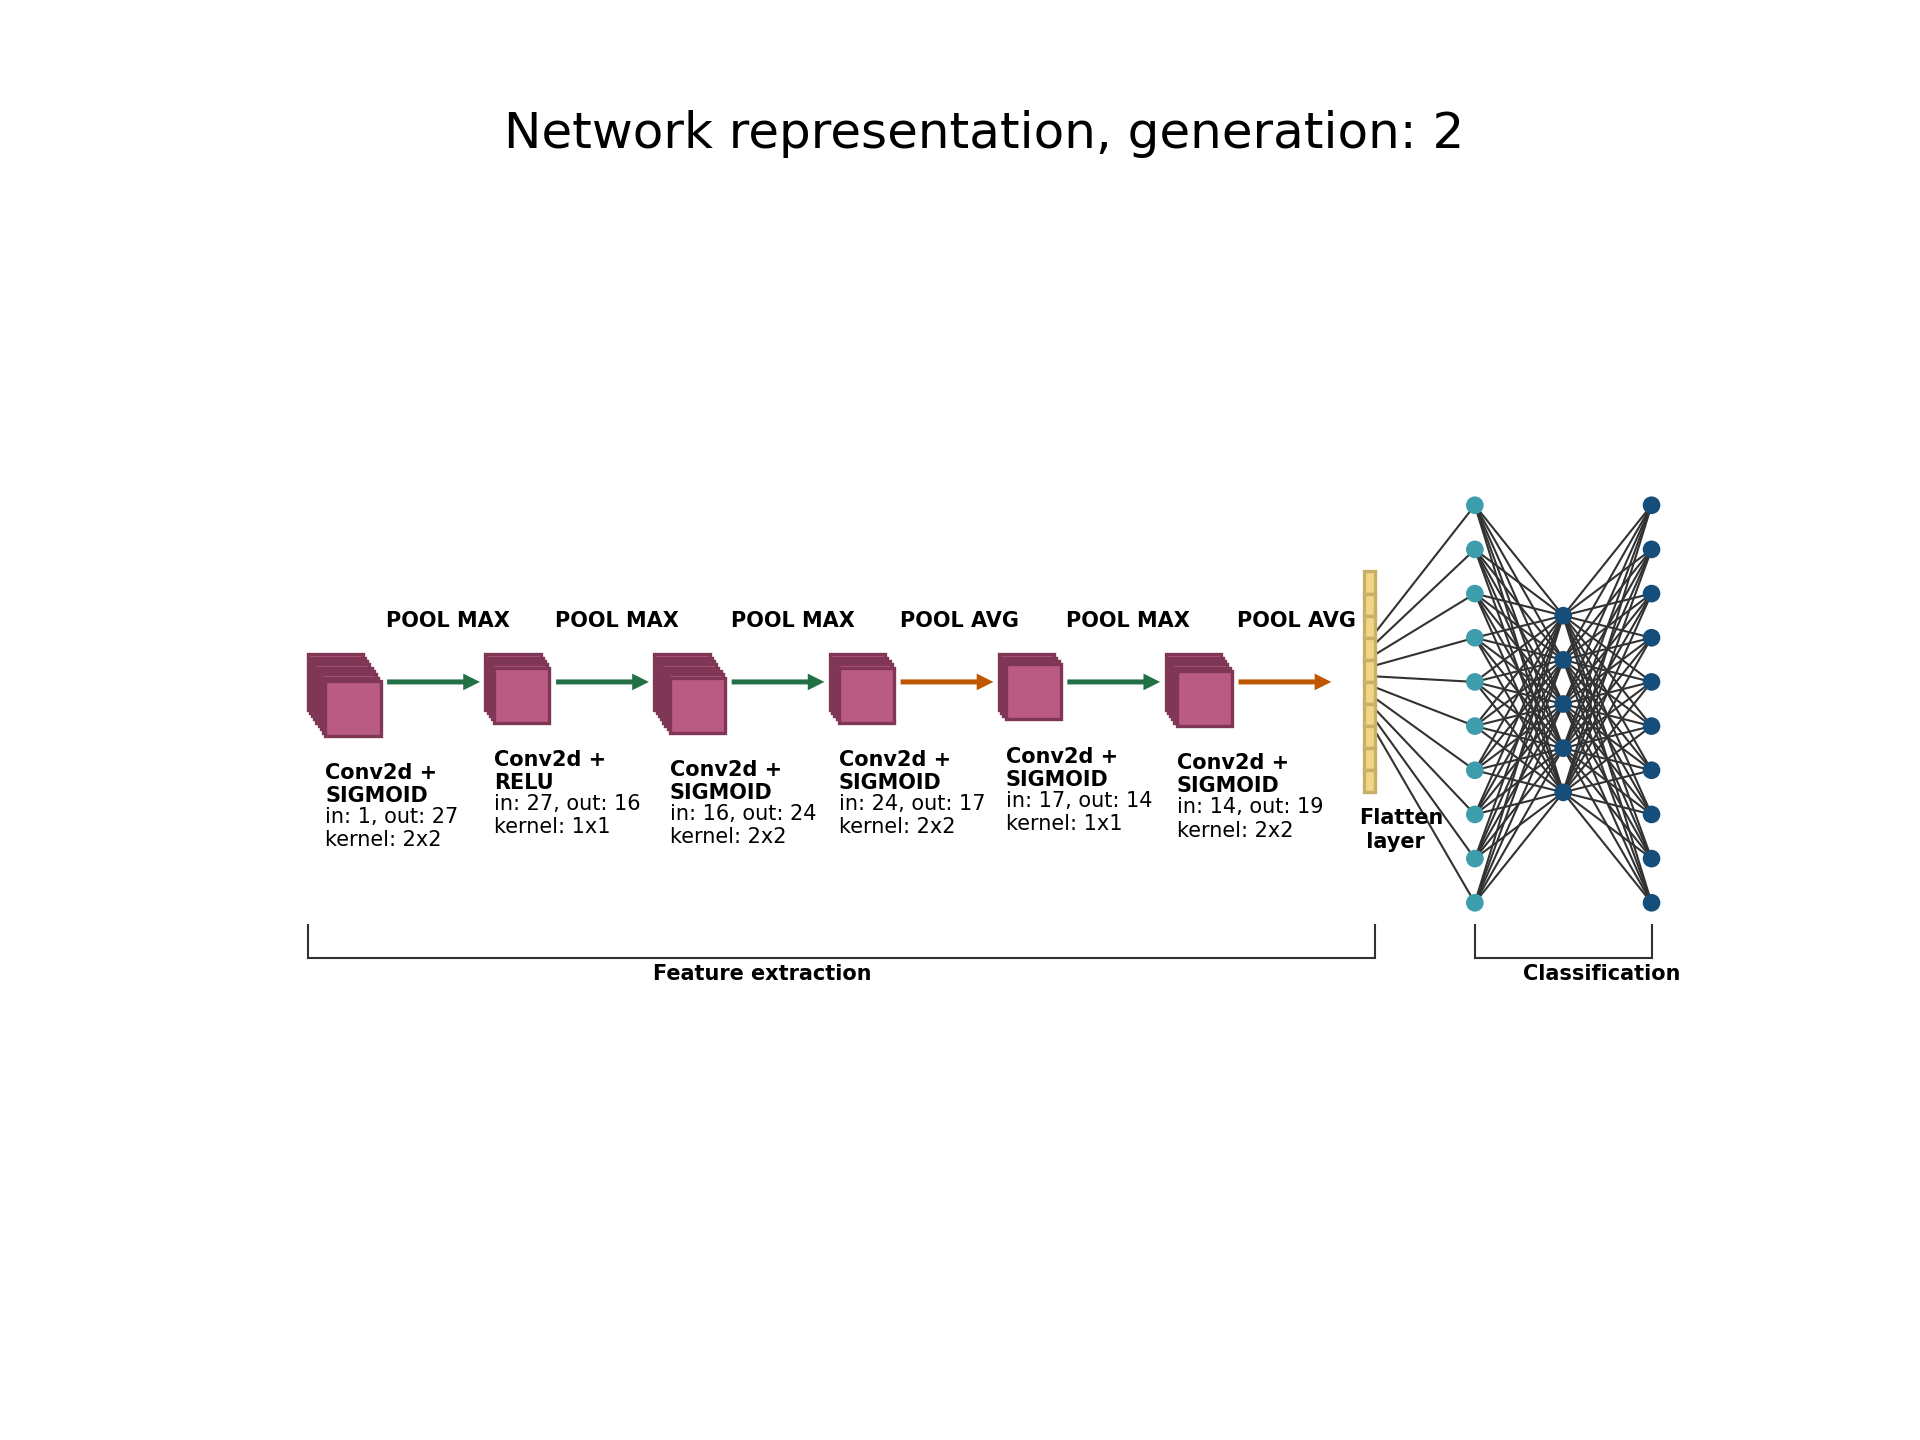
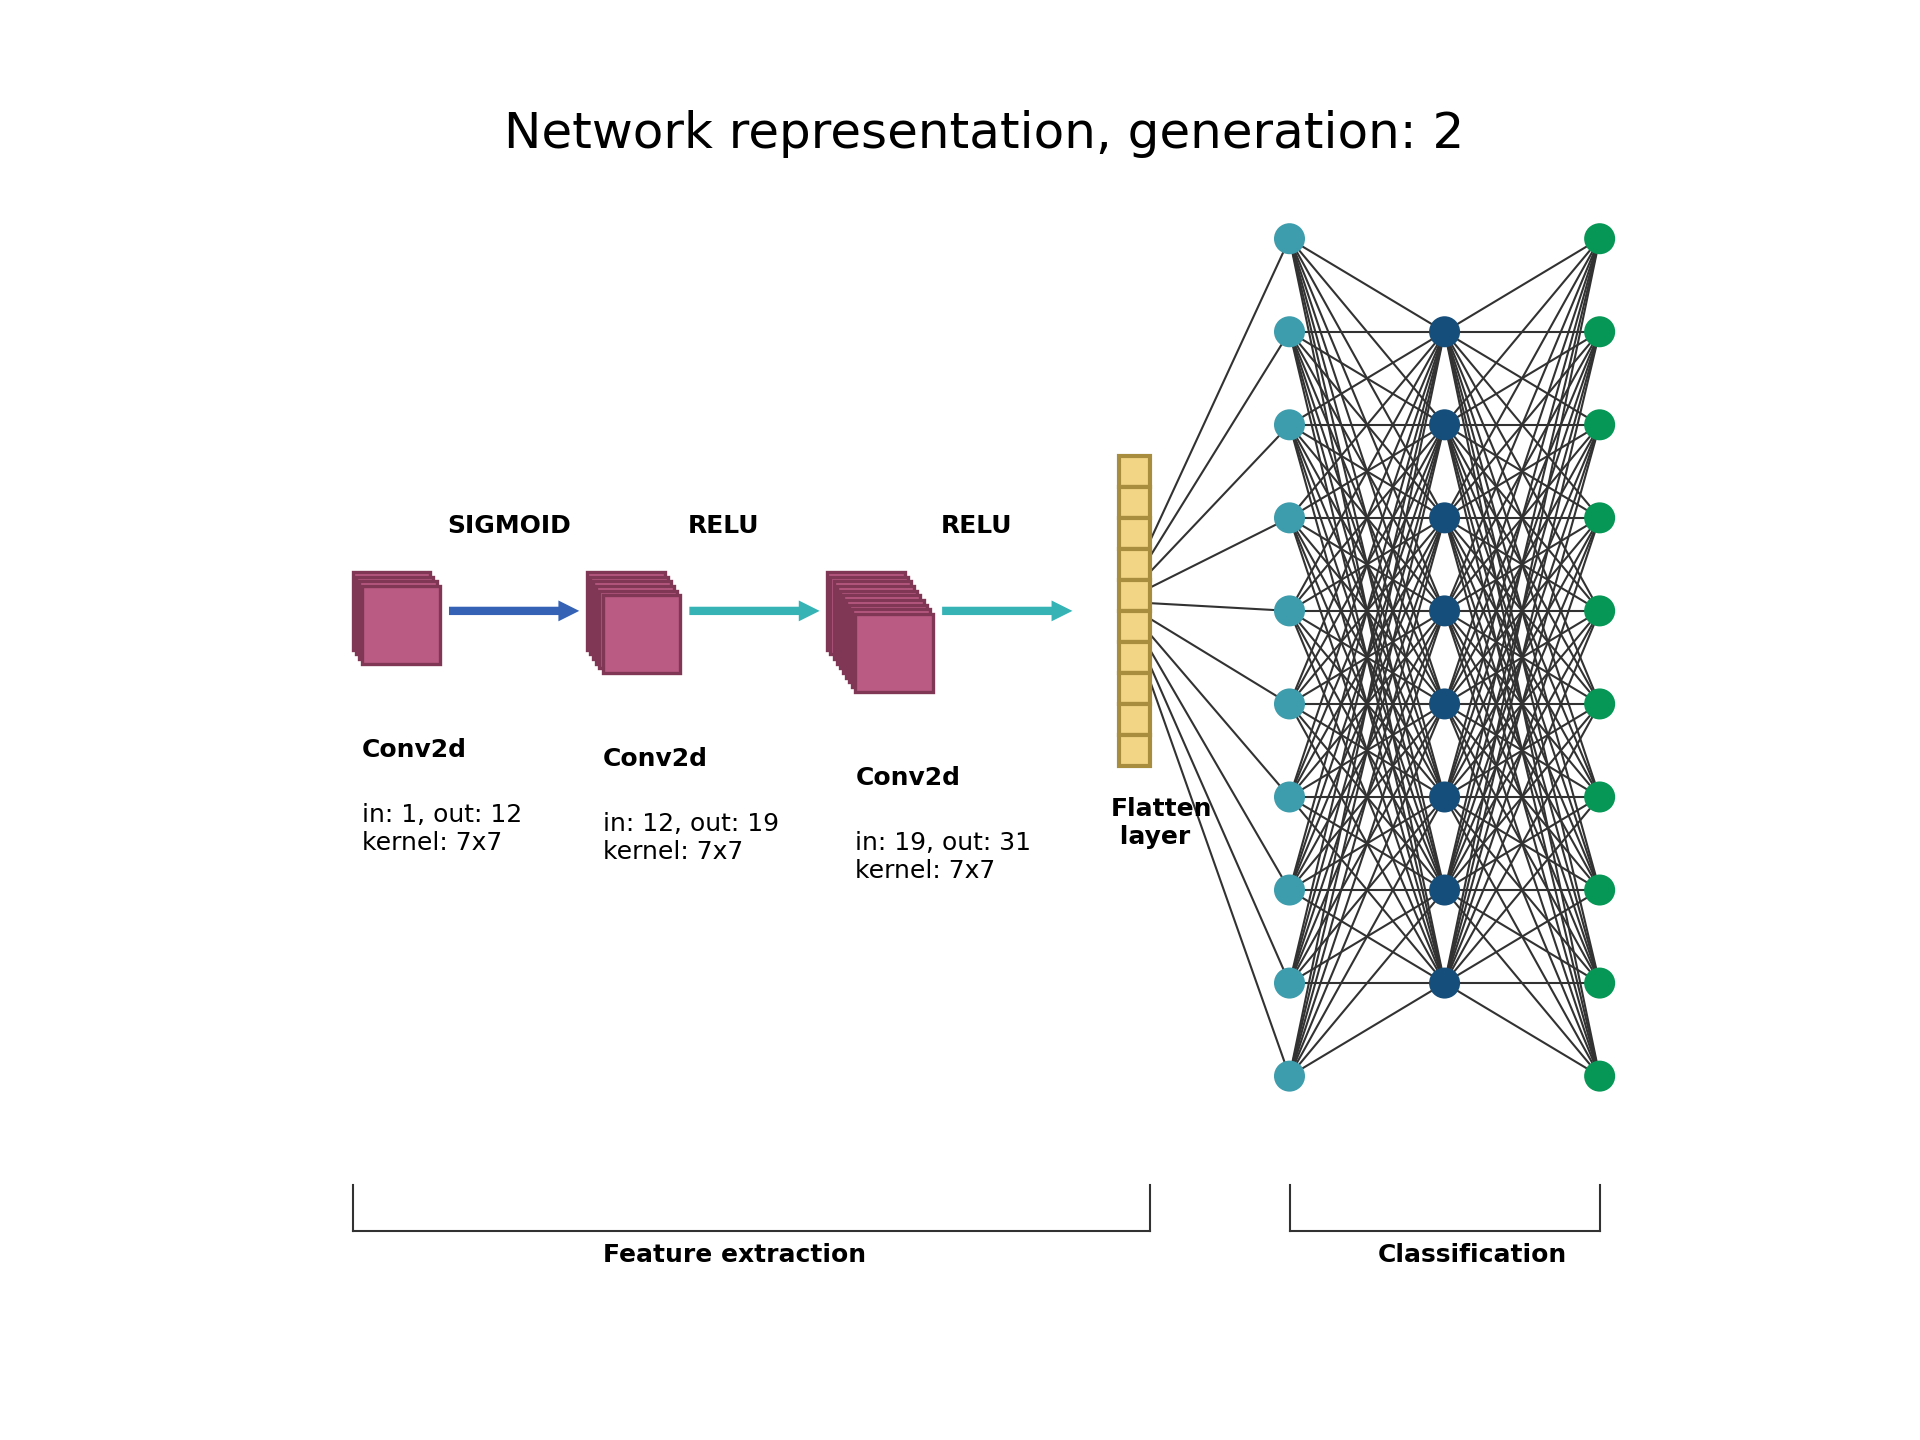
net representation

diff --git a/DENSER/main.py b/DENSER/main.py
@@ -54,28 +54,30 @@ def test_evolution(dataset, batch_size):
 def generate_random_net():
     num_feat = np.random.randint(1, MAX_LEN_FEATURES)
     num_class = np.random.randint(1, MAX_LEN_CLASSIFICATION)
-    return Net_encoding(num_feat, num_class, c_in, c_out, input_size)
+    return Net_encoding(num_feat, num_class, 1, 10,28)
 
 def create_random_gif():
     for i in range(8):
         enc = generate_random_net()
         enc.draw(i)
 
-    frames = []
+    """ frames = []
     # Build GIF
 
     for filename in listdir('images_net'):
         image = imageio.imread('images_net/'+filename)
         frames.append(image)
 
-    imageio.mimsave('nn_evolution.gif', frames, format='GIF', duration=1)
+    imageio.mimsave('nn_evolution.gif', frames, format='GIF', duration=1) """
 
 if __name__ == "__main__":
    
     # load dataset for the following test function
-    batch_size = 4
+    """ batch_size = 4
 
     dataset = MNIST
     print("\n\n Evolution of a population of networks: \n\n")
-    test_evolution(dataset, batch_size)
+    test_evolution(dataset, batch_size) """
+
+    create_random_gif()
 

diff --git a/DENSER/src/ga_level.py b/DENSER/src/ga_level.py
@@ -189,8 +189,9 @@ class Net_encoding:
             elif self.GA_encoding(i).M_type == module_types.CLASSIFICATION:
                 index = i - self.len_features()
                 START, node_input = self.GA_encoding(i).draw_classification(START, length_c, length_f, index, node_in = node_input)
+            
             else:
-                START, node_input = self.GA_encoding(i).draw_classification(START, length_c, length_f, length_c, node_in = node_input)
+                START, node_input = self.GA_encoding(i).draw_classification(START, length_c, length_f, length_c, node_in = node_input) 
 
         # add title
         plt.title(f"Network representation, generation: {gen}")
